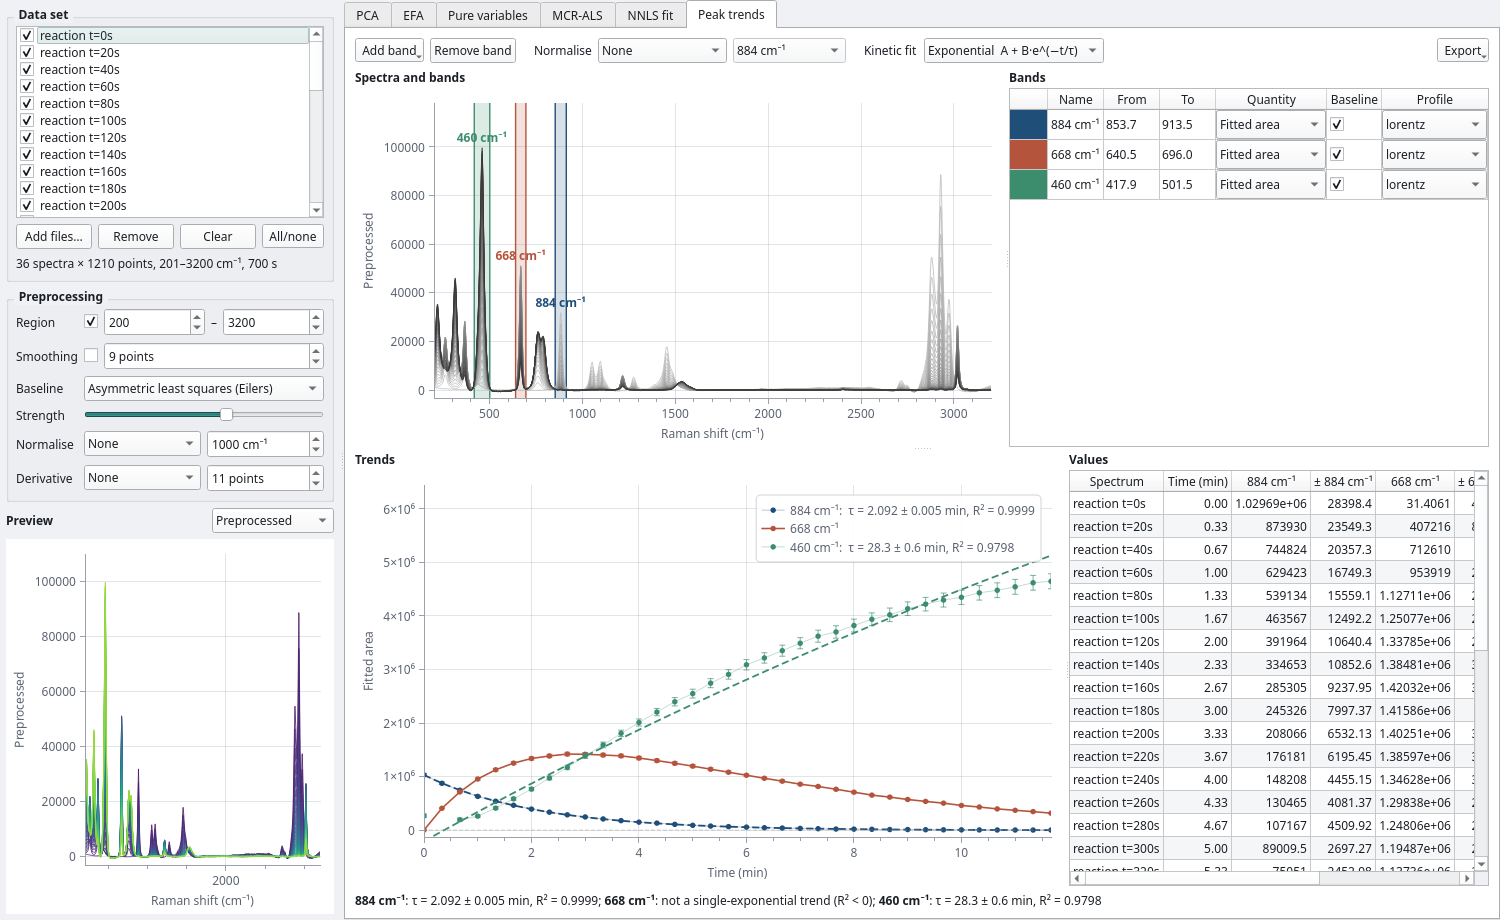
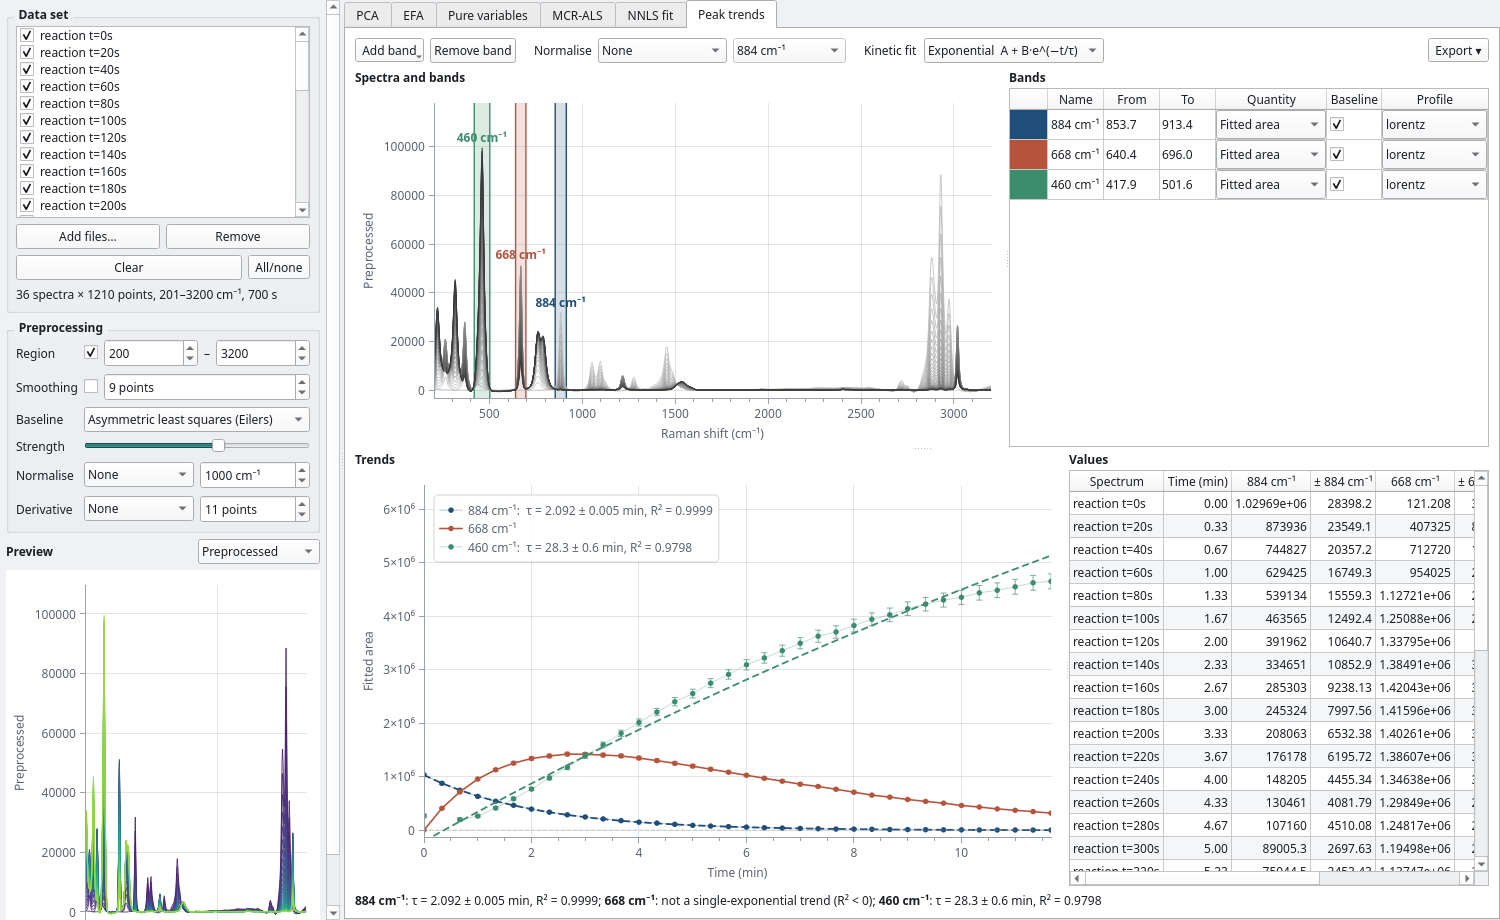
Fit 1440x900 laptop screens: Data controls wrap, baseline names no longer widen Measure and Analysis; new README screenshots
Claude-Session: https://claude.ai/code/session_01LPtdCr1nF1HEU8TsMDmyqA

diff --git a/cpp/src/gui/flowlayout.cpp b/cpp/src/gui/flowlayout.cpp
@@ -1,0 +1,119 @@
+#include "flowlayout.h"
+
+#include <QHBoxLayout>
+#include <QWidget>
+
+namespace lr::gui {
+
+FlowLayout::FlowLayout(QWidget* parent, int hSpacing, int vSpacing) : QLayout(parent), m_h(hSpacing), m_v(vSpacing) {
+    setContentsMargins(0, 0, 0, 0);
+}
+
+FlowLayout::~FlowLayout() {
+    while (QLayoutItem* item = takeAt(0)) delete item;
+}
+
+void FlowLayout::addItem(QLayoutItem* item) { m_items.append(item); }
+
+QLayoutItem* FlowLayout::itemAt(int index) const {
+    return index >= 0 && index < m_items.size() ? m_items.at(index) : nullptr;
+}
+
+QLayoutItem* FlowLayout::takeAt(int index) {
+    return index >= 0 && index < m_items.size() ? m_items.takeAt(index) : nullptr;
+}
+
+QSize FlowLayout::minimumSize() const {
+    QSize s;
+    for (const QLayoutItem* item : m_items)
+        if (!item->isEmpty()) s = s.expandedTo(item->minimumSize());
+    const QMargins m = contentsMargins();
+    return s + QSize(m.left() + m.right(), m.top() + m.bottom());
+}
+
+QSize FlowLayout::sizeHint() const {   // everything on one line
+    int w = 0, h = 0, n = 0;
+    for (const QLayoutItem* item : m_items) {
+        if (item->isEmpty()) continue;
+        w += item->sizeHint().width() + (n++ ? m_h : 0);
+        h = std::max(h, item->sizeHint().height());
+    }
+    const QMargins m = contentsMargins();
+    return QSize(w + m.left() + m.right(), h + m.top() + m.bottom());
+}
+
+void FlowLayout::setGeometry(const QRect& rect) {
+    QLayout::setGeometry(rect);
+    doLayout(rect, false);
+}
+
+int FlowLayout::doLayout(const QRect& rect, bool testOnly) const {
+    const QMargins m = contentsMargins();
+    const QRect r = rect.adjusted(m.left(), m.top(), -m.right(), -m.bottom());
+    int x = r.x(), y = r.y(), lineHeight = 0;
+    // items of one line share its height (vertically centred)
+    QList<QPair<QLayoutItem*, QPoint>> line;
+    auto flush = [&] {
+        if (!testOnly)
+            for (const auto& [item, p] : line) {
+                const QSize s = item->sizeHint();
+                item->setGeometry(QRect(QPoint(p.x(), p.y() + (lineHeight - s.height()) / 2), s));
+            }
+        line.clear();
+    };
+    for (QLayoutItem* item : m_items) {
+        if (item->isEmpty()) continue;
+        QSize s = item->sizeHint();
+        s.setWidth(std::min(s.width(), std::max(r.width(), item->minimumSize().width())));
+        if (x > r.x() && x + s.width() > r.right() + 1) {   // wrap
+            flush();
+            x = r.x();
+            y += lineHeight + m_v;
+            lineHeight = 0;
+        }
+        line.append({item, QPoint(x, y)});
+        x += s.width() + m_h;
+        lineHeight = std::max(lineHeight, s.height());
+    }
+    flush();
+    return y + lineHeight - rect.y() + m.bottom();
+}
+
+int FlowLayout::addGroups(QHBoxLayout* row) {
+    int groups = 0;
+    QHBoxLayout* current = nullptr;
+    auto finish = [&] {
+        if (!current) return;
+        auto* w = new QWidget;
+        current->setContentsMargins(0, 0, 0, 0);
+        w->setLayout(current);
+        addWidget(w);
+        current = nullptr;
+        ++groups;
+    };
+    while (QLayoutItem* item = row->takeAt(0)) {
+        if (QWidget* w = item->widget()) {
+            if (!current) {
+                current = new QHBoxLayout;
+                current->setSpacing(6);
+            }
+            current->addWidget(w);
+        } else if (QLayout* l = item->layout()) {
+            finish();
+            auto* holder = new QWidget;
+            l->setParent(nullptr);
+            l->setContentsMargins(0, 0, 0, 0);
+            holder->setLayout(l);
+            addWidget(holder);
+            ++groups;
+            continue;   // the layout now belongs to holder; the item is the layout itself
+        } else {
+            finish();   // spacing or stretch: a group boundary
+        }
+        delete item;
+    }
+    finish();
+    return groups;
+}
+
+}  // namespace lr::gui

diff --git a/cpp/src/gui/flowlayout.h b/cpp/src/gui/flowlayout.h
@@ -1,0 +1,41 @@
+#pragma once
+// A layout that places its items left to right and wraps onto further lines when the width runs out (the Qt
+// "flow layout" example). Used for control rows that must fit laptop screens: its minimum width is that of the
+// widest item, not the sum of all of them.
+//
+// groupRow(row) turns a QHBoxLayout that was filled with widgets into wrap-friendly groups: the widgets between
+// spacings/stretches stay together (a label next to its control), each group becomes one flow item.
+#include <QLayout>
+#include <QList>
+
+class QHBoxLayout;
+
+namespace lr::gui {
+
+class FlowLayout : public QLayout {
+public:
+    explicit FlowLayout(QWidget* parent = nullptr, int hSpacing = 12, int vSpacing = 4);
+    ~FlowLayout() override;
+
+    void addItem(QLayoutItem* item) override;
+    int count() const override { return int(m_items.size()); }
+    QLayoutItem* itemAt(int index) const override;
+    QLayoutItem* takeAt(int index) override;
+    Qt::Orientations expandingDirections() const override { return {}; }
+    bool hasHeightForWidth() const override { return true; }
+    int heightForWidth(int width) const override { return doLayout(QRect(0, 0, width, 0), true); }
+    QSize minimumSize() const override;
+    QSize sizeHint() const override;
+    void setGeometry(const QRect& rect) override;
+
+    // Moves the widgets of `row` (an unparented QHBoxLayout) into this layout as groups; spacings and
+    // stretches separate groups. Returns the number of groups added. `row` is left empty.
+    int addGroups(QHBoxLayout* row);
+
+private:
+    int doLayout(const QRect& rect, bool testOnly) const;
+    QList<QLayoutItem*> m_items;
+    int m_h, m_v;
+};
+
+}  // namespace lr::gui

diff --git a/cpp/tests/gui_test_mainwindow.cpp b/cpp/tests/gui_test_mainwindow.cpp
@@ -15,6 +15,12 @@
 #include "core/simulator.h"
 
 #include <QApplication>
+#include <QTabWidget>
+#include <QComboBox>
+#include <QLabel>
+#include <QAbstractSpinBox>
+#include <QAbstractButton>
+#include <QSlider>
 #include <QCheckBox>
 #include <QComboBox>
 #include <QDir>
@@ -464,6 +470,15 @@ void GuiTestMainWindow::measureCurveToggles() {
     QVERIFY(m->showBaselineBox()->isVisible());
     QVERIFY(m->showEarlierBox()->isVisible());
     QVERIFY(m->addToLibraryButton()->isVisible());     // a plain button in the Last spectrum box, not only in ⋯
+    // laptop size (1440x900): no page (Measure strip, Data control rows, Analysis panel) makes the window
+    // wider than the screen, and the baseline slider keeps its width
+    const QSize old = m_win->size();
+    m_win->resize(1440, 900);
+    QApplication::processEvents();
+    QVERIFY2(m_win->minimumSizeHint().width() <= 1440, qPrintable(QString::number(m_win->minimumSizeHint().width())));
+    QVERIFY2(m->strengthSlider()->width() >= 60, qPrintable(QString::number(m->strengthSlider()->width())));
+    m_win->resize(old);
+    QApplication::processEvents();
     const bool was = m->showEarlierBox()->isChecked();
     m->showEarlierBox()->setChecked(!was);
     QCOMPARE(QSettings().value(QStringLiteral("measure/showEarlier")).toBool(), !was);

diff --git a/cpp/src/gui/measurepage.cpp b/cpp/src/gui/measurepage.cpp
@@ -544,8 +544,11 @@ QWidget* MeasurePage::buildSettingsPanel() {
     m_strength->setRange(0, 100);
     m_strength->setValue(60);
     m_strength->setToolTip(QStringLiteral("Baseline stiffness: larger = smoother baseline"));
+    m_strength->setMinimumWidth(70);       // laptop screens: the bar must not squeeze the slider away
     m_strength->setMaximumWidth(120);
-    m_baseline->setSizeAdjustPolicy(QComboBox::AdjustToContents);
+    // the long method names (popup) must not widen the bar and push the right-hand panel off the window
+    m_baseline->setSizeAdjustPolicy(QComboBox::AdjustToMinimumContentsLengthWithIcon);
+    m_baseline->setMinimumContentsLength(16);
     m_despike = new QCheckBox(QStringLiteral("remove cosmic rays"));
     m_despike->setChecked(true);
     m_smoothing = new QCheckBox(QStringLiteral("smooth (Savitzky–Golay)"));

diff --git a/cpp/src/gui/datapage.cpp b/cpp/src/gui/datapage.cpp
@@ -1,4 +1,5 @@
 #include "datapage.h"
+#include "flowlayout.h"
 #include "page.h"
 
 #include "bandstrip.h"
@@ -369,8 +370,15 @@ void DataPage::build() {
     m->addAction(tr("Plot as SVG…"), this, [this] { exportDialog("svg"); });
     exp->setMenu(m);
     bar->addWidget(exp);
-    rv->addLayout(bar);
-    rv->addLayout(bar2);
+    // both rows wrap on narrow (laptop) windows; a label stays with its control, the actions stay together last
+    auto* flow = new FlowLayout;
+    flow->addGroups(bar);
+    QLayoutItem* actions = flow->takeAt(flow->count() - 1);
+    flow->addGroups(bar2);
+    flow->addItem(actions);
+    delete bar;
+    delete bar2;
+    rv->addLayout(flow);
     {   // last session's baseline settings (#6)
         const QSignalBlocker b1(m_baseline), b2(m_strength), b3(m_fitMin);
         const QSettings st;

diff --git a/cpp/src/gui/analysispage.cpp b/cpp/src/gui/analysispage.cpp
@@ -391,6 +391,8 @@ QWidget* AnalysisPage::buildDataPanel() {
     m_baseline = new QComboBox;
     for (const auto& b : processing::baselines()) m_baseline->addItem(b.second, b.first);
     m_baseline->setCurrentIndex(std::max(0, m_baseline->findData(QStringLiteral("none"))));
+    m_baseline->setSizeAdjustPolicy(QComboBox::AdjustToMinimumContentsLengthWithIcon);   // long names: popup only
+    m_baseline->setMinimumContentsLength(16);
     m_strength = new QSlider(Qt::Horizontal);
     m_strength->setRange(0, 20);
     m_strength->setValue(10);

diff --git a/cpp/src/gui/measurepage.h b/cpp/src/gui/measurepage.h
@@ -86,6 +86,7 @@ public:
     QSpinBox* bandBox() const { return m_band; }
     QToolButton* moreButton() const { return m_moreBtn; }   // "⋯" menu of the Last spectrum panel
     QPushButton* addToLibraryButton() const { return m_addLibBtn; }
+    QSlider* strengthSlider() const { return m_strength; }
     QMenu* moreMenu() const { return m_moreMenu; }
     QLabel* signalLabel() const { return m_fillPct; }         // "37 %" next to the Signal bar
     QToolButton* processingToggle() const { return m_procToggle; }

diff --git a/knowledge/log.md b/knowledge/log.md
@@ -16,3 +16,4 @@ title: Knowledge bundle log
 - 2026-11-23: reference set 4: electrolyte.json (10 carbonate electrolyte entries incl. Li+-solvated EC/PC, LP30); many publishers block automated access.
 - 2026-11-23: reference set 5: Raman Open Database (CC0), 422 compounds, one spectrum each (rod.json, 4.4 MB); first-start import of all 540 reference entries ~0.6 s.
 - 2026-11-23: reference set 6: VC, BF4-/ClO4- coordination, BOB-, LiDFOB from papers the user supplied (articles/ in Instruments, gitignored); EC/PC entries refined with Allen 2014.
+- 2026-11-23: laptop width (1440x900): Data control rows wrap (FlowLayout), long baseline names no longer widen Measure/Analysis; test checks the window fits. README screenshots renewed (0.3.3).
